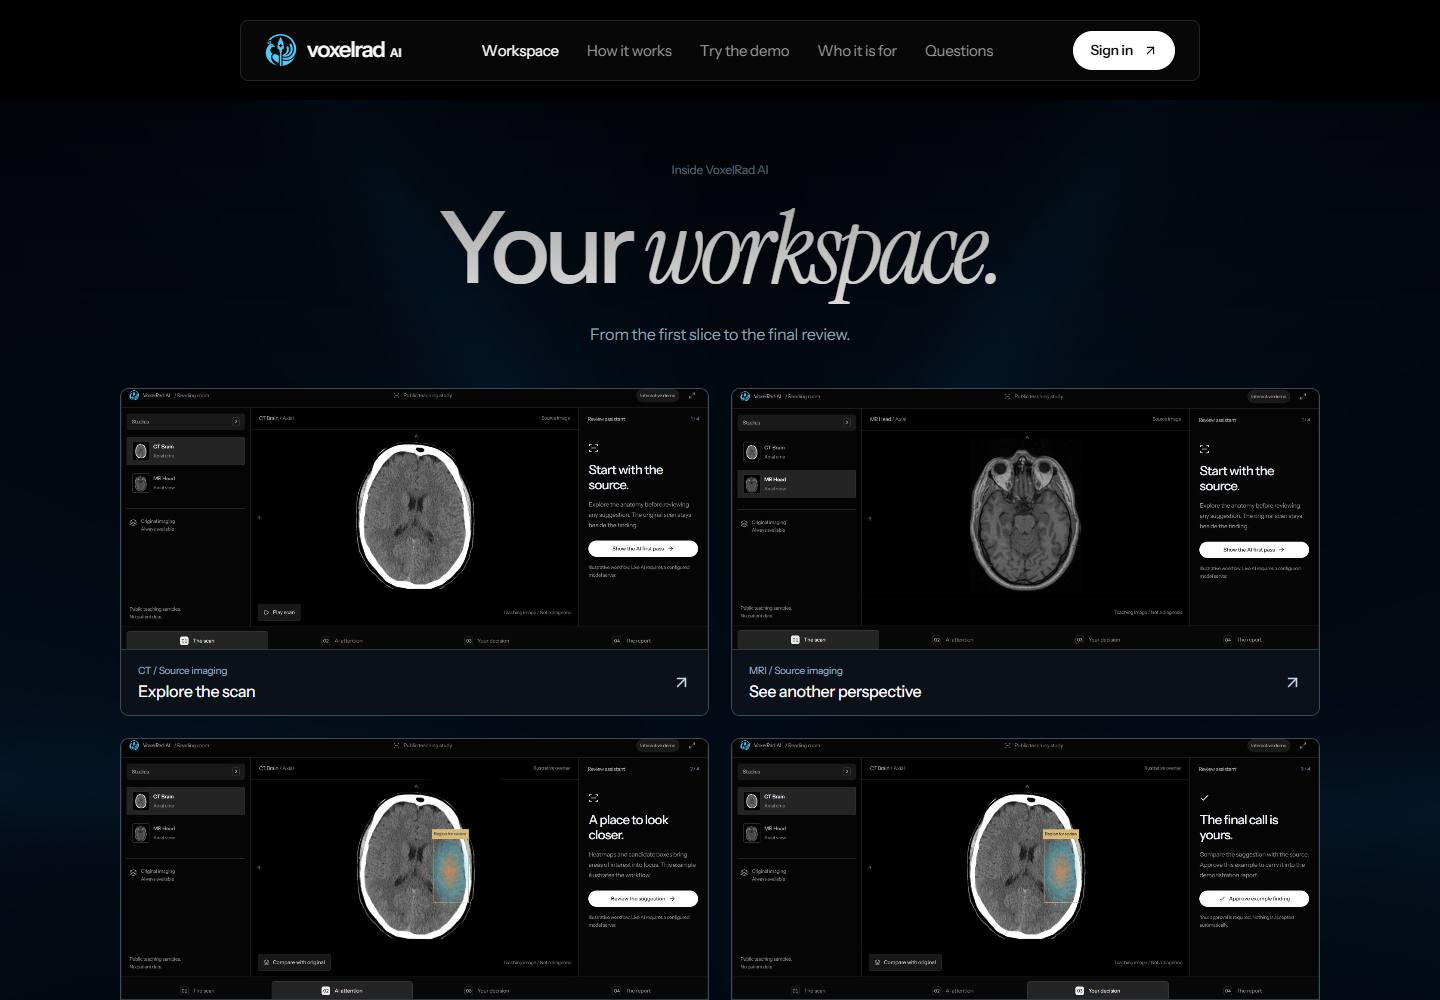
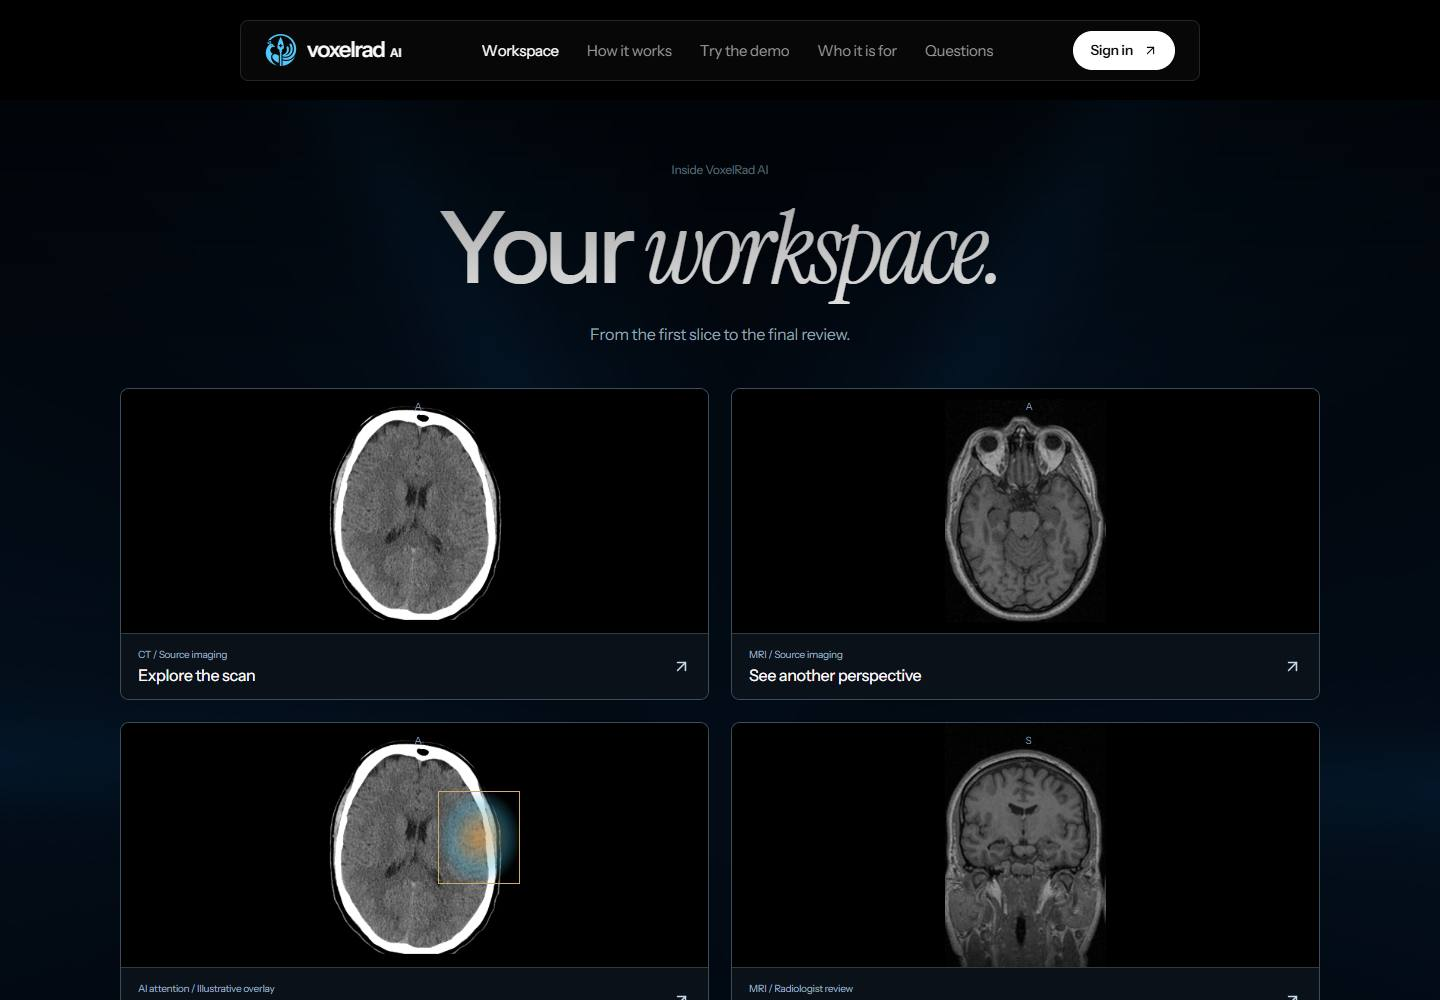
Animate workspace background and arrange repository scans in a 3D helix

diff --git a/app/src/WorkspaceShowcase.tsx b/app/src/WorkspaceShowcase.tsx
@@ -1,17 +1,29 @@
-import { useEffect, useRef } from 'react'
-import { ArrowDown, ArrowUpRight } from 'lucide-react'
+import { useEffect, useRef, useState } from 'react'
+import { ArrowDown, ArrowUpRight, Pause, Play } from 'lucide-react'
 import './workspace-showcase.css'
 
 const previews = [
-  { image: 'ct-review', title: 'Explore the scan', detail: 'CT / Source imaging', chapter: 0, modality: 'CT' as const },
-  { image: 'mri-review', title: 'See another perspective', detail: 'MRI / Source imaging', chapter: 0, modality: 'MRI' as const },
-  { image: 'ai-attention', title: 'Find a place to look closer', detail: 'AI attention / Illustrative overlay', chapter: 1, modality: 'CT' as const },
-  { image: 'clinician-review', title: 'Make the final call', detail: 'Radiologist / Explicit approval', chapter: 2, modality: 'CT' as const },
-  { image: 'report-draft', title: 'Carry the evidence forward', detail: 'Reporting / Demonstration draft', chapter: 3, modality: 'CT' as const },
+  { image: '/login/ct-poster.webp', title: 'Explore the scan', detail: 'CT / Source imaging', chapter: 0, modality: 'CT' as const },
+  { image: '/login/mr-axial.webp', title: 'See another perspective', detail: 'MRI / Source imaging', chapter: 0, modality: 'MRI' as const },
+  { image: '/login/ct-poster.webp', title: 'Find a place to look closer', detail: 'AI attention / Illustrative overlay', chapter: 1, modality: 'CT' as const },
+  { image: '/login/mr-coronal.webp', title: 'Make the final call', detail: 'MRI / Radiologist review', chapter: 2, modality: 'MRI' as const },
+  { image: '/showcase/report-draft.jpg', title: 'Carry the evidence forward', detail: 'Reporting / Demonstration draft', chapter: 3, modality: 'CT' as const },
 ]
 
 export function WorkspaceShowcase({ onExplore }: { onExplore: (chapter: number, modality: 'CT' | 'MRI') => void }) {
   const section = useRef<HTMLElement>(null)
+  const [paused, setPaused] = useState(false)
+  const [visible, setVisible] = useState(false)
+  useEffect(() => {
+    const element = section.current
+    if (!element) return
+    let intersecting = false
+    const update = () => setVisible(intersecting && !document.hidden)
+    const observer = new IntersectionObserver(entries => { intersecting = entries[0].isIntersecting; update() })
+    observer.observe(element)
+    document.addEventListener('visibilitychange', update)
+    return () => { observer.disconnect(); document.removeEventListener('visibilitychange', update) }
+  }, [])
   useEffect(() => {
     const element = section.current
     if (!element) return
@@ -25,6 +37,16 @@ export function WorkspaceShowcase({ onExplore }: { onExplore: (chapter: number, 
       const progress = Math.max(0, Math.min(1, -rect.top / Math.max(1, rect.height - innerHeight)))
       element.style.setProperty('--travel', `${(progress - .5) * 150}px`)
       element.style.setProperty('--orbit', `${(progress - .5) * 20}deg`)
+      const radius = Math.min(350, element.clientWidth * .25)
+      const pitch = Math.min(150, innerHeight * .16)
+      element.querySelectorAll<HTMLElement>('.vr-showcase-shot').forEach((shot, index) => {
+        const angle = index * 1.26 + progress * Math.PI * 1.5 - .7
+        shot.style.setProperty('--helix-x', `${Math.sin(angle) * radius}px`)
+        shot.style.setProperty('--helix-z', `${Math.cos(angle) * radius}px`)
+        shot.style.setProperty('--helix-y', `${(index - 2) * pitch - (progress - .5) * 140}px`)
+        shot.style.setProperty('--helix-yaw', `${Math.sin(angle) * -42}deg`)
+        shot.style.setProperty('--helix-brightness', `${.72 + (Math.cos(angle) + 1) * .14}`)
+      })
     }
     const schedule = () => { if (!frame) frame = requestAnimationFrame(render) }
     render()
@@ -33,14 +55,15 @@ export function WorkspaceShowcase({ onExplore }: { onExplore: (chapter: number, 
     media.addEventListener('change', schedule)
     return () => { cancelAnimationFrame(frame); window.removeEventListener('scroll', schedule); window.removeEventListener('resize', schedule); media.removeEventListener('change', schedule) }
   }, [])
-  return <section ref={section} className="vr-workspace-showcase" id="workspace-showcase" aria-labelledby="workspace-showcase-title">
+  return <section ref={section} className="vr-workspace-showcase" id="workspace-showcase" aria-labelledby="workspace-showcase-title" data-background-running={visible && !paused}>
     <div className="vr-showcase-sticky">
       <div className="vr-showcase-light" aria-hidden="true" />
       <div className="vr-showcase-heading"><p>Inside VoxelRad AI</p><h2 id="workspace-showcase-title">Your <em>workspace.</em></h2><span>From the first slice to the final review.</span></div>
-      <div className="vr-showcase-space">{previews.map((preview, index) => <a className={`vr-showcase-shot vr-showcase-shot-${index}`} key={preview.image} href="#reading-room" onClick={() => onExplore(preview.chapter, preview.modality)} aria-label={`Explore ${preview.title.toLowerCase()} in the interactive demo`}>
-        <img src={`/showcase/${preview.image}.jpg`} alt="" loading="lazy" width="1364" height="600" />
+      <div className="vr-showcase-space"><div className="vr-showcase-orbit">{previews.map((preview, index) => <a className={`vr-showcase-shot vr-showcase-shot-${index}`} key={preview.title} href="#reading-room" onClick={() => onExplore(preview.chapter, preview.modality)} aria-label={`Explore ${preview.title.toLowerCase()} in the interactive demo`}>
+        <figure className={index === 4 ? 'vr-showcase-media vr-showcase-report' : 'vr-showcase-media'}><img src={preview.image} alt="" loading="lazy" />{index < 4 && <span className="vr-showcase-orientation" aria-hidden="true">{index === 3 ? 'S' : 'A'}</span>}{index === 2 && <span className="vr-showcase-attention" aria-hidden="true" />}</figure>
         <div><span><small>{preview.detail}</small><strong>{preview.title}</strong></span><ArrowUpRight size={19} /></div>
-      </a>)}</div>
+      </a>)}</div></div>
+      <button className="vr-background-toggle" onClick={() => setPaused(value => !value)} aria-label={paused ? 'Play background motion' : 'Pause background motion'} aria-pressed={paused}>{paused ? <Play size={14} /> : <Pause size={14} />}<span>{paused ? 'Play motion' : 'Pause motion'}</span></button>
       <div className="vr-showcase-caption"><span><ArrowDown size={15} /> Scroll to explore · Select a preview to try it</span><small>Public teaching scans. AI overlays and reports are illustrative.</small></div>
     </div>
   </section>

diff --git a/app/src/workspace-showcase.css b/app/src/workspace-showcase.css
@@ -28,3 +28,24 @@
 @media(max-width:760px),(prefers-reduced-motion:reduce){.vr-workspace-showcase{height:auto;margin-bottom:85px}.vr-showcase-sticky{position:relative;height:auto;min-height:0;padding:60px 20px 30px}.vr-showcase-heading{position:relative;padding:0 0 40px}.vr-cinematic-page .vr-showcase-heading h2{font-size:clamp(48px,7vw,100px)}.vr-showcase-space{position:relative;display:grid;grid-template-columns:repeat(2,minmax(0,1fr));gap:22px;perspective:none;max-width:1200px;margin:auto}.vr-showcase-shot{position:relative;inset:auto;width:100%;transform:none!important;box-shadow:none;border-color:#3b4c5b}.vr-showcase-shot:focus-visible{transform:none!important;box-shadow:none}.vr-showcase-caption{position:relative;inset:auto;margin:30px auto 0;max-width:1200px;flex-wrap:wrap}.vr-showcase-caption>span{display:none}.vr-showcase-light{filter:blur(28px);opacity:.4}}
 @media(max-width:760px){.vr-showcase-space{grid-template-columns:1fr;gap:18px}.vr-showcase-shot strong{font-size:17px}.vr-showcase-shot small{font-size:11px}.vr-showcase-heading>span{font-size:14px}.vr-showcase-shot>div{padding:15px}.vr-showcase-caption>small{line-height:1.6}.vr-cinematic-page .lp2-header>nav{display:none}}
 @media(max-width:760px),(prefers-reduced-motion:reduce){.vr-workspace-showcase{scroll-margin-top:100px!important}}
+.vr-showcase-light{animation:vr-showcase-current 26s ease-in-out infinite;animation-play-state:paused}
+.vr-workspace-showcase[data-background-running=true] .vr-showcase-light{animation-play-state:running}
+@keyframes vr-showcase-current{0%,100%{transform:translate3d(-3%,-2%,0) rotate(-28deg) scale(1.2)}50%{transform:translate3d(4%,3%,0) rotate(32deg) scale(1.35)}}
+.vr-showcase-media{position:relative;margin:0;height:clamp(180px,17vw,245px);background:#000;border-bottom:1px solid #303b45;overflow:hidden}
+.vr-showcase-shot .vr-showcase-media img{width:100%;height:100%;aspect-ratio:auto;object-fit:contain;border:0}
+.vr-showcase-shot .vr-showcase-report img{object-fit:cover}
+.vr-showcase-orientation{position:absolute;top:10px;left:50%;font-size:10px;color:#829bac}
+.vr-showcase-attention{position:absolute;left:54%;top:28%;width:14%;height:38%;border:1px solid #d3ab6b;background:radial-gradient(ellipse,#efa24c99,#44b2d255 50%,transparent 75%)}
+.vr-background-toggle{position:absolute;right:24px;top:100px;z-index:4;display:flex;align-items:center;gap:8px;min-height:40px;padding:10px 14px;border:1px solid #536779;border-radius:100px;background:#06101ce6;color:#d8e8f3;font:12px inherit;cursor:pointer}
+.vr-background-toggle:hover{background:#172d40}
+@media(max-width:760px){.vr-showcase-media{height:240px}.vr-background-toggle{position:relative;inset:auto;margin:22px 0 0;min-height:44px}.vr-showcase-light{inset:0 -60%;height:100%;filter:blur(16px)}@keyframes vr-showcase-current{0%,100%{transform:translate3d(-4%,-2%,0) rotate(-8deg) scale(1.2)}50%{transform:translate3d(4%,2%,0) rotate(8deg) scale(1.25)}}}
+@media(prefers-reduced-motion:reduce){.vr-showcase-light{animation:none!important}.vr-background-toggle{display:none}}
+/* One shared 3D axis: cylindrical positions plus vertical pitch form a helix. */
+.vr-showcase-space{perspective:1700px}
+.vr-showcase-orbit{position:absolute;inset:0;transform-style:preserve-3d;transform:rotateZ(-18deg) rotateX(-8deg)}
+.vr-showcase-space .vr-showcase-shot{transform:translate3d(calc(-50% + var(--helix-x,0px)),calc(-50% + var(--helix-y,0px)),var(--helix-z,0px)) rotateY(var(--helix-yaw,0deg));filter:brightness(var(--helix-brightness,1));backface-visibility:visible;width:clamp(300px,34vw,470px)}
+.vr-showcase-orbit:has(:focus-visible){transform:none}
+.vr-showcase-space .vr-showcase-shot:focus-visible{filter:none}
+.vr-background-toggle{font-family:inherit;font-size:12px}
+@media(max-width:760px),(prefers-reduced-motion:reduce){.vr-showcase-space{display:block;perspective:none}.vr-showcase-orbit{position:relative;display:grid;grid-template-columns:repeat(2,minmax(0,1fr));gap:22px;transform:none}.vr-showcase-space .vr-showcase-shot{width:100%;filter:none;transform:none!important}}
+@media(max-width:760px){.vr-showcase-orbit{grid-template-columns:1fr;gap:18px}}

diff --git a/docs/design/visuvate-mapping.md b/docs/design/visuvate-mapping.md
@@ -68,18 +68,20 @@ The generic style inspector also flags the intentional blue gradient, framed pre
 
 ## “Our Works” becomes “Your workspace”
 
-The reference's sticky, full-viewport 3D portfolio was inspected separately at three scroll positions. VoxelRad now has a corresponding section at `#workspace-showcase`: five real screenshots of CT, MRI, AI attention, clinician review and report-draft states surround the large title over blue light bands. Scroll position changes their depth-oriented transforms; there is no continuously running animation loop.
+The reference's sticky, full-viewport 3D portfolio was inspected separately at three scroll positions. VoxelRad has a corresponding section at `#workspace-showcase`: repository CT/MRI teaching images, an explicitly illustrative attention overlay and a captured report draft surround the large title over moving blue light bands. The cards follow a shared cylindrical helix: scroll changes their angular position and vertical pitch, with depth and orientation changing together. Scroll updates are scheduled with requestAnimationFrame; the background uses a CSS transform animation.
 
-Each preview links to its corresponding interactive reading-room state. Selecting the report preview does not grant approval. Keyboard focus brings the chosen preview into the center of the screen. At mobile widths and under reduced-motion preferences the same links become a static, ordered image gallery. Screenshots use public teaching studies and explicitly illustrative AI overlays.
+Each preview links to its corresponding interactive reading-room state. Selecting the report preview does not grant approval. Keyboard focus brings the chosen preview into the center of the screen. At mobile widths and under reduced-motion preferences the same links become a static, ordered image gallery. Background motion has a pause/resume control and pauses offscreen or in a hidden tab; reduced-motion preferences disable it. Source imagery comes from `app/public/login/ct-poster.webp`, `mr-axial.webp` and `mr-coronal.webp`. The report preview remains a real screenshot of the demonstration draft.
 
 | Before | After | Why |
 | --- | --- | --- |
 | Portfolio section absent | Full-viewport “Your workspace” showcase | Adapt the reference's signature section to the actual application. |
-| Agency websites as reference imagery | Five screenshots captured from VoxelRad | Show what the user can actually explore. |
+| Agency websites as reference imagery | Repository teaching scans and a captured VoxelRad report draft | Show imaging directly, with source assets already maintained by the application. |
 | Reference uses WebGL canvases | CSS perspective with scroll-driven transforms | Keep images, links and keyboard access native and avoid an extra rendering dependency. |
 | No stage-specific showcase links | Each preview opens the correct CT/MRI/demo stage | Turn the presentation into a useful product entry point. |
 
 Verified: all five image assets load; scroll changes the transforms; all five destinations open the expected stage; report access leaves approval unset; no horizontal overflow at 1440/768/390/375; reduced motion uses a static layout; build and lint pass.
+
+The background was additionally checked at two times without scrolling: its transform changes while running, remains unchanged after Pause, resumes on request, and pauses after leaving the section. The reduced-motion version has no background animation.
 
 ## Build boundaries
 
